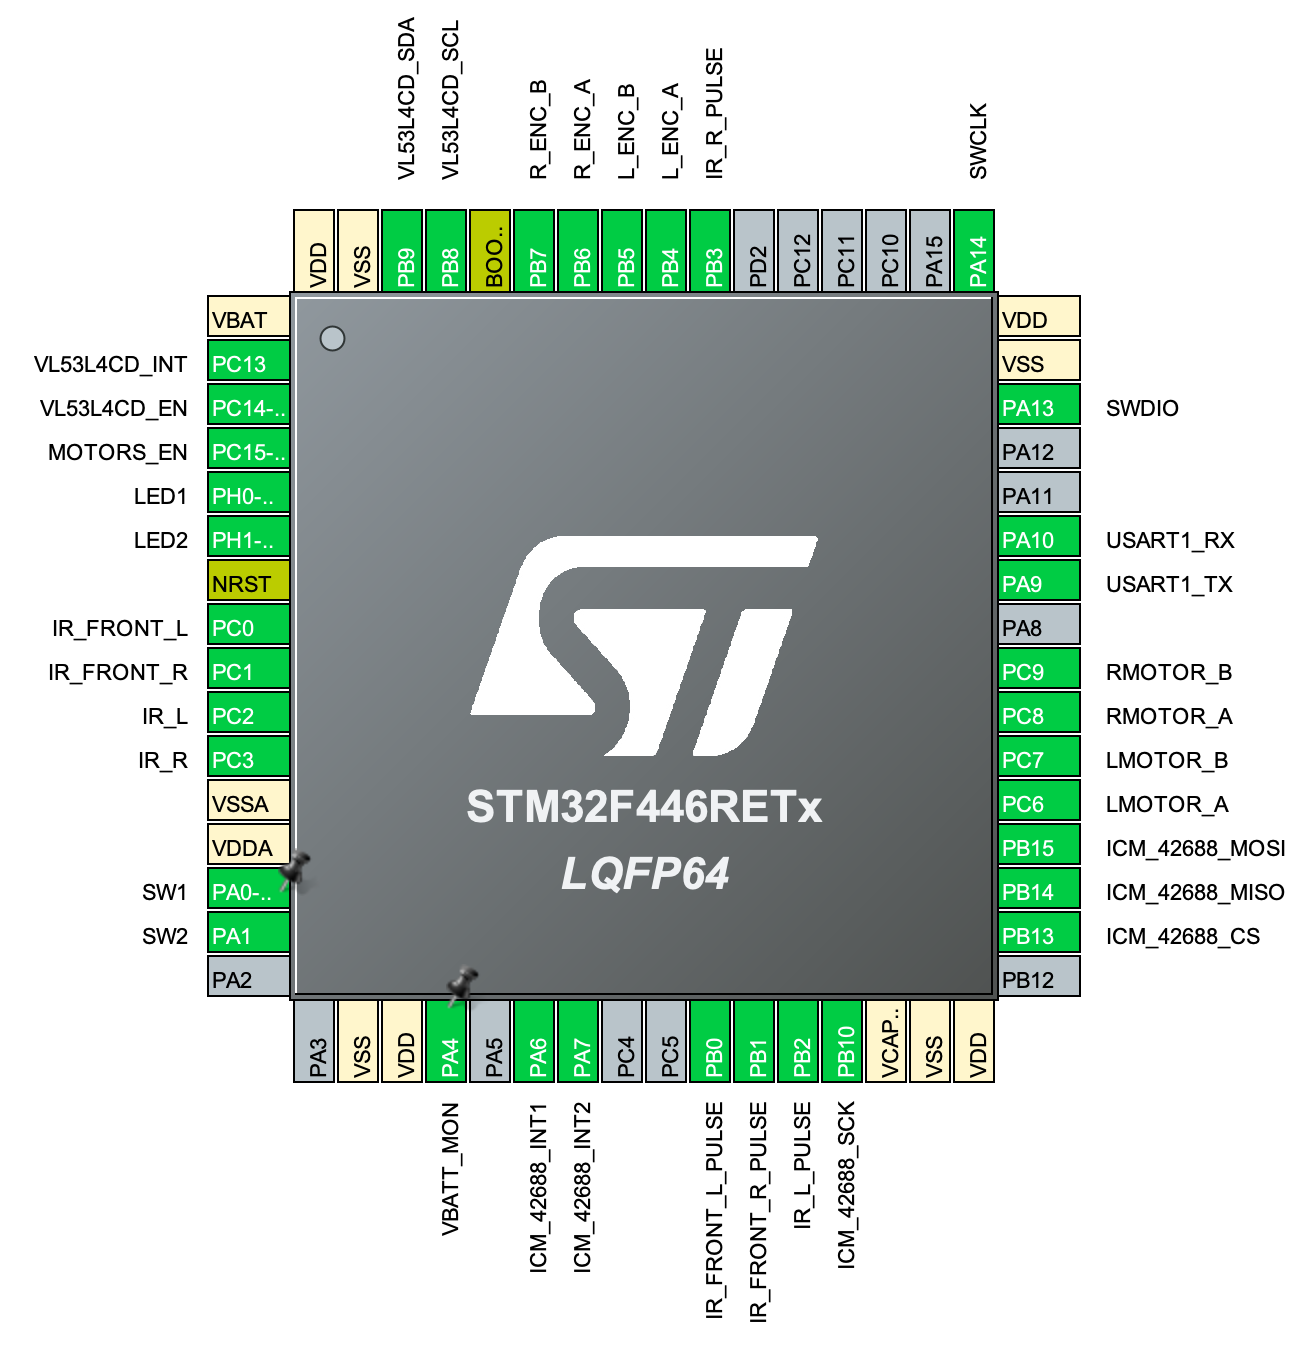
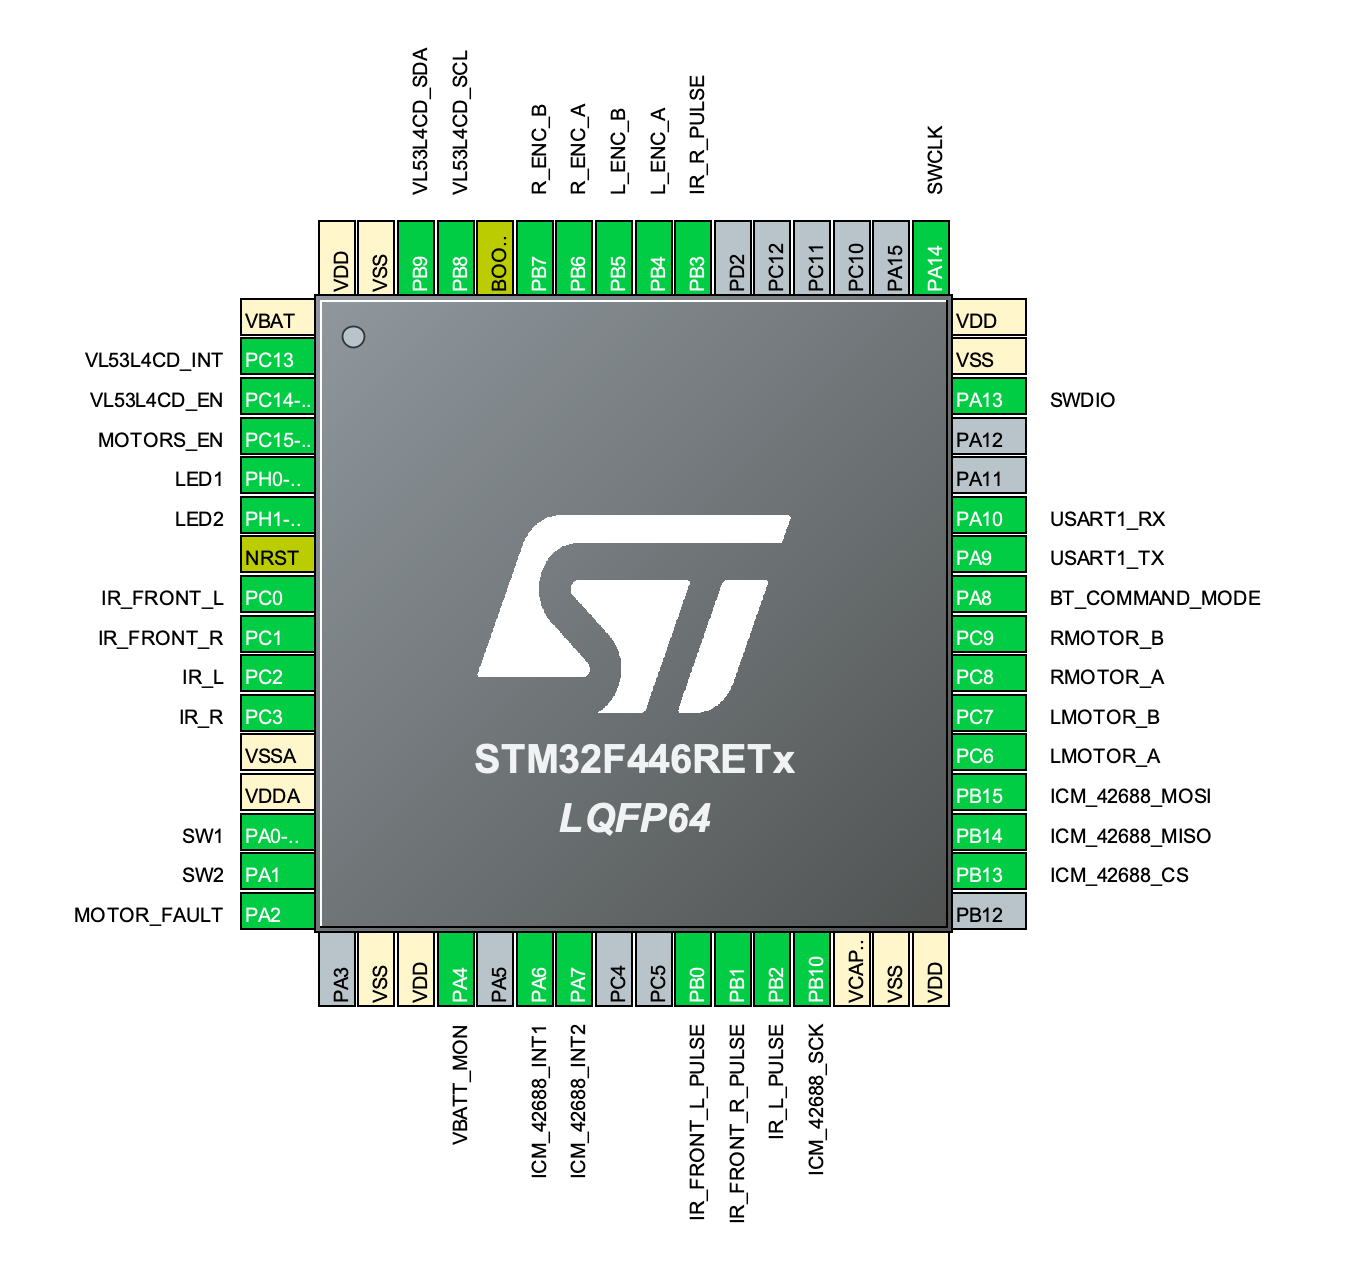
Add pins

diff --git a/stm32/Core/Src/main.c b/stm32/Core/Src/main.c
@@ -526,6 +526,9 @@ static void MX_GPIO_Init(void)
   HAL_GPIO_WritePin(GPIOB, IR_FRONT_L_PULSE_Pin|IR_FRONT_R_PULSE_Pin|IR_L_PULSE_Pin|ICM_42688_CS_Pin
                           |IR_R_PULSE_Pin, GPIO_PIN_RESET);
 
+  /*Configure GPIO pin Output Level */
+  HAL_GPIO_WritePin(BT_COMMAND_MODE_GPIO_Port, BT_COMMAND_MODE_Pin, GPIO_PIN_RESET);
+
   /*Configure GPIO pin : VL53L4CD_INT_Pin */
   GPIO_InitStruct.Pin = VL53L4CD_INT_Pin;
   GPIO_InitStruct.Mode = GPIO_MODE_IT_RISING;
@@ -546,11 +549,11 @@ static void MX_GPIO_Init(void)
   GPIO_InitStruct.Speed = GPIO_SPEED_FREQ_LOW;
   HAL_GPIO_Init(GPIOH, &GPIO_InitStruct);
 
-  /*Configure GPIO pin : SW2_Pin */
-  GPIO_InitStruct.Pin = SW2_Pin;
+  /*Configure GPIO pins : SW2_Pin MOTOR_FAULT_Pin */
+  GPIO_InitStruct.Pin = SW2_Pin|MOTOR_FAULT_Pin;
   GPIO_InitStruct.Mode = GPIO_MODE_INPUT;
   GPIO_InitStruct.Pull = GPIO_NOPULL;
-  HAL_GPIO_Init(SW2_GPIO_Port, &GPIO_InitStruct);
+  HAL_GPIO_Init(GPIOA, &GPIO_InitStruct);
 
   /*Configure GPIO pins : ICM_42688_INT1_Pin ICM_42688_INT2_Pin */
   GPIO_InitStruct.Pin = ICM_42688_INT1_Pin|ICM_42688_INT2_Pin;
@@ -566,6 +569,13 @@ static void MX_GPIO_Init(void)
   GPIO_InitStruct.Pull = GPIO_NOPULL;
   GPIO_InitStruct.Speed = GPIO_SPEED_FREQ_LOW;
   HAL_GPIO_Init(GPIOB, &GPIO_InitStruct);
+
+  /*Configure GPIO pin : BT_COMMAND_MODE_Pin */
+  GPIO_InitStruct.Pin = BT_COMMAND_MODE_Pin;
+  GPIO_InitStruct.Mode = GPIO_MODE_OUTPUT_PP;
+  GPIO_InitStruct.Pull = GPIO_NOPULL;
+  GPIO_InitStruct.Speed = GPIO_SPEED_FREQ_LOW;
+  HAL_GPIO_Init(BT_COMMAND_MODE_GPIO_Port, &GPIO_InitStruct);
 
 /* USER CODE BEGIN MX_GPIO_Init_2 */
 /* USER CODE END MX_GPIO_Init_2 */

diff --git a/stm32/Core/Inc/main.h b/stm32/Core/Inc/main.h
@@ -81,6 +81,8 @@ void Error_Handler(void);
 #define SW1_GPIO_Port GPIOA
 #define SW2_Pin GPIO_PIN_1
 #define SW2_GPIO_Port GPIOA
+#define MOTOR_FAULT_Pin GPIO_PIN_2
+#define MOTOR_FAULT_GPIO_Port GPIOA
 #define VBATT_MON_Pin GPIO_PIN_4
 #define VBATT_MON_GPIO_Port GPIOA
 #define ICM_42688_INT1_Pin GPIO_PIN_6
@@ -109,6 +111,8 @@ void Error_Handler(void);
 #define RMOTOR_A_GPIO_Port GPIOC
 #define RMOTOR_B_Pin GPIO_PIN_9
 #define RMOTOR_B_GPIO_Port GPIOC
+#define BT_COMMAND_MODE_Pin GPIO_PIN_8
+#define BT_COMMAND_MODE_GPIO_Port GPIOA
 #define SWDIO_Pin GPIO_PIN_13
 #define SWDIO_GPIO_Port GPIOA
 #define SWCLK_Pin GPIO_PIN_14

diff --git a/README.md b/README.md
@@ -28,7 +28,7 @@ A forward-facing VL53L4CD time-of-flight ranging sensor is used for look-ahead
 | 13       | VDDA             | Power   |                  |                  |                                        |
 | 14       | PA0-WKUP         | I/O     | SYS_WKUP0        | SW1              | Switch 1, momentary push-button input  |
 | 15       | PA1              | Input   | GPIO_Input       | SW2              | Switch 2, momentary push-button input  |
-| 16       | PA2              | I/O     |                  |                  |                                        |
+| 16       | PA2              | Inpu    | GPIO_Input       | MOTOR_FAULT      | Motor fault                            |
 | 17       | PA3              | I/O     |                  |                  |                                        |
 | 18       | VSS              | Power   |                  |                  |                                        |
 | 19       | VDD              | Power   |                  |                  |                                        |
@@ -53,7 +53,7 @@ A forward-facing VL53L4CD time-of-flight ranging sensor is used for look-ahead
 | 38       | PC7              | I/O     | TIM8_CH2         | LMOTOR_B         | Left motor PWM signal 2                |
 | 39       | PC8              | I/O     | TIM8_CH3         | RMOTOR_A         | Right motor PWM signal 1               |
 | 40       | PC9              | I/O     | TIM8_CH4         | RMOTOR_B         | Right motor PWM signal 2               |
-| 41       | PA8              | I/O     |                  |                  |                                        |
+| 41       | PA8              | Output  | GPIO_Output      | BT_COMMAND_MODE  | Bluetooth command mode                 |
 | 42       | PA9              | I/O     | USART1_TX        |                  | Remote Serial/bootloader TX            |
 | 43       | PA10             | I/O     | USART1_RX        |                  | Remote Serial/bootloader RX            |
 | 44       | PA11             | I/O     |                  |                  |                                        |
